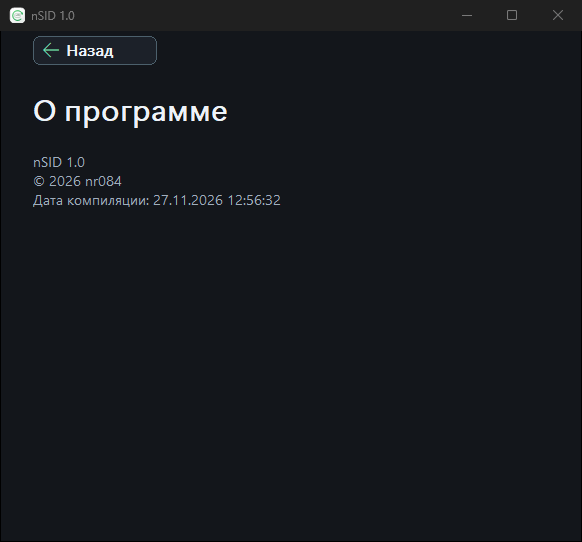
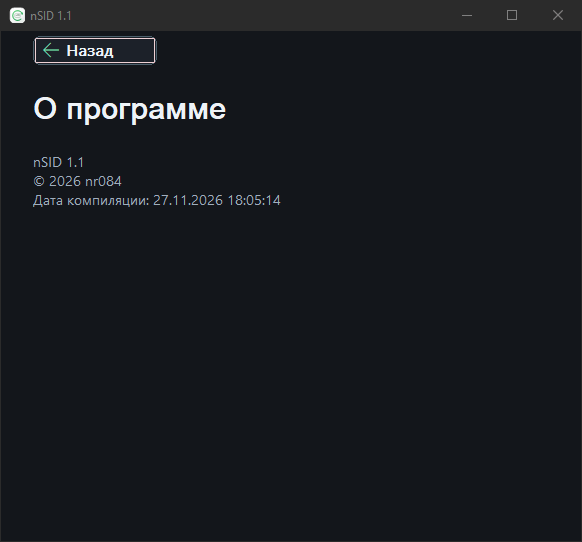
Refresh English and Russian screenshots for nSID 1.1

diff --git a/README.md b/README.md
@@ -53,8 +53,8 @@ The interface is available in Russian and English. In Settings, choose the light
 
 ## Interface
 
-Screenshots show the Russian interface in 1.0.
+Screenshots show nSID 1.1.
 
-![Settings, light theme](screenshots/ru/settings-light.png)
-![Settings, dark theme](screenshots/ru/settings-dark.png)
-![About](screenshots/ru/about-dark.png)
+![Settings, light theme](screenshots/en/settings-light.png)
+![Settings, dark theme](screenshots/en/settings-dark.png)
+![About](screenshots/en/about-dark.png)

diff --git a/README.ru.md b/README.ru.md
@@ -53,7 +53,7 @@ nSID разрабатывается для миграции клонов Windows
 
 ## Интерфейс
 
-Скриншоты показывают русскую версию интерфейса 1.0.
+Скриншоты показывают интерфейс nSID 1.1.
 
 ![Настройки, светлая тема](screenshots/ru/settings-light.png)
 ![Настройки, тёмная тема](screenshots/ru/settings-dark.png)
